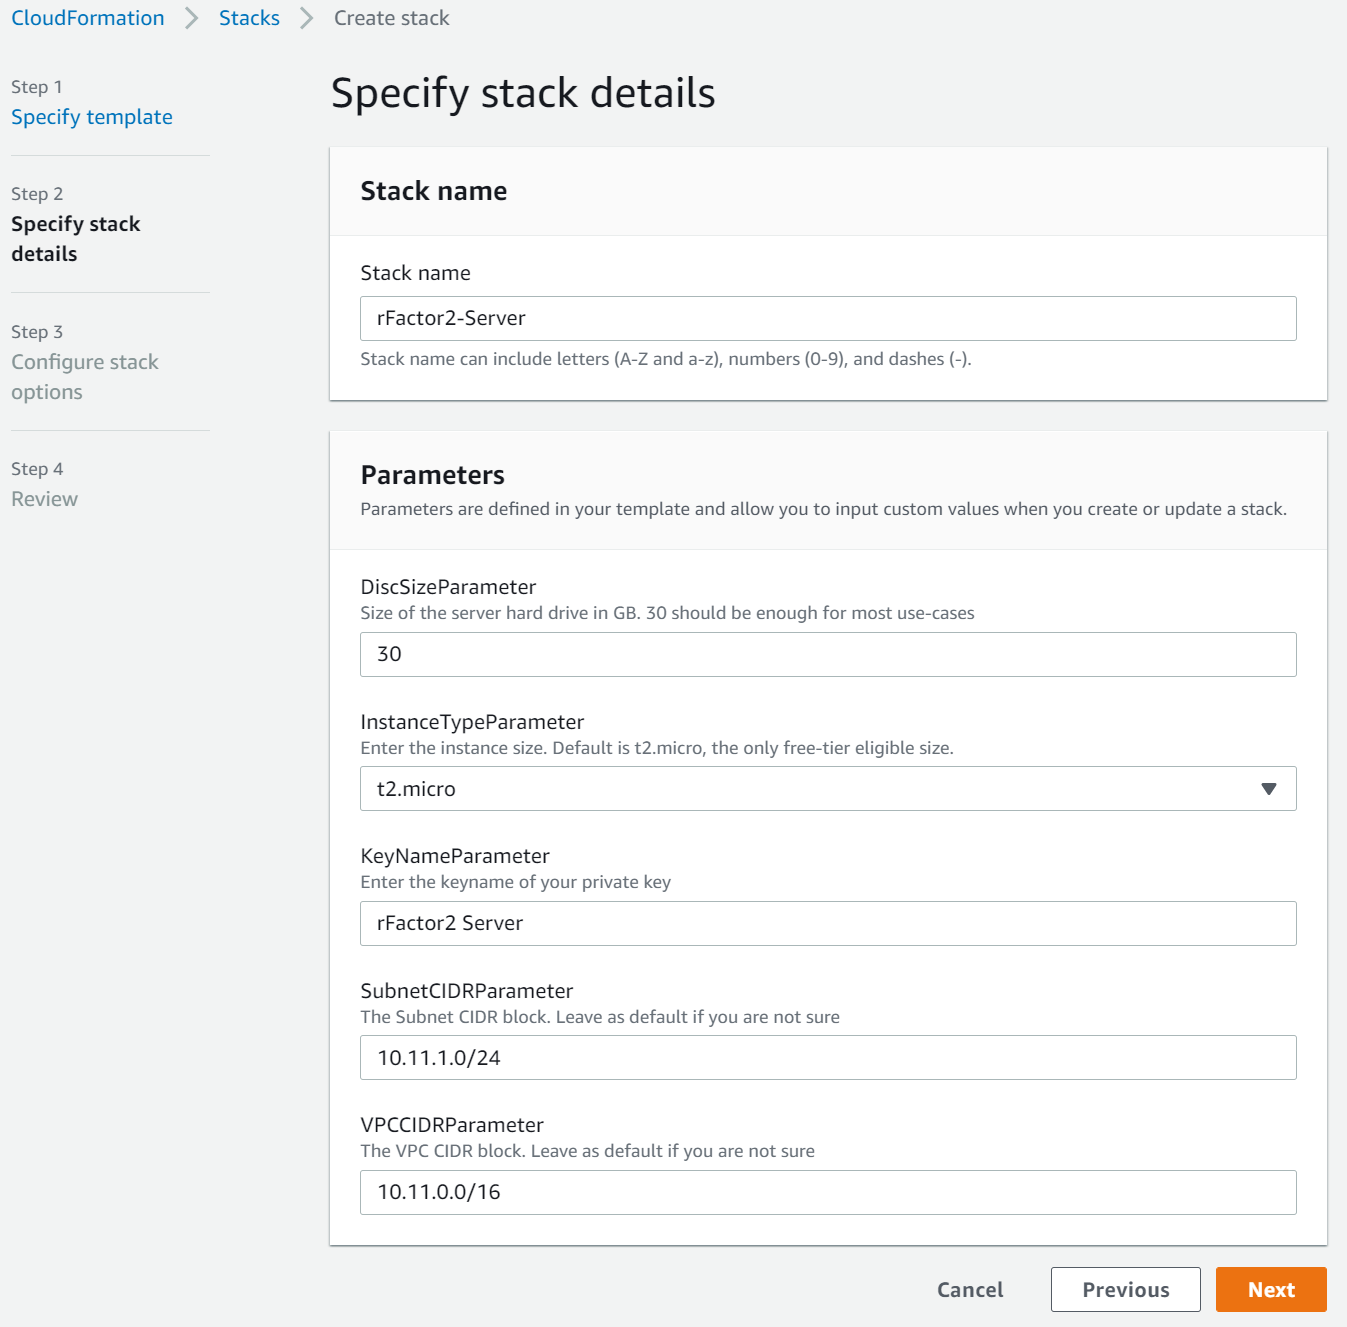
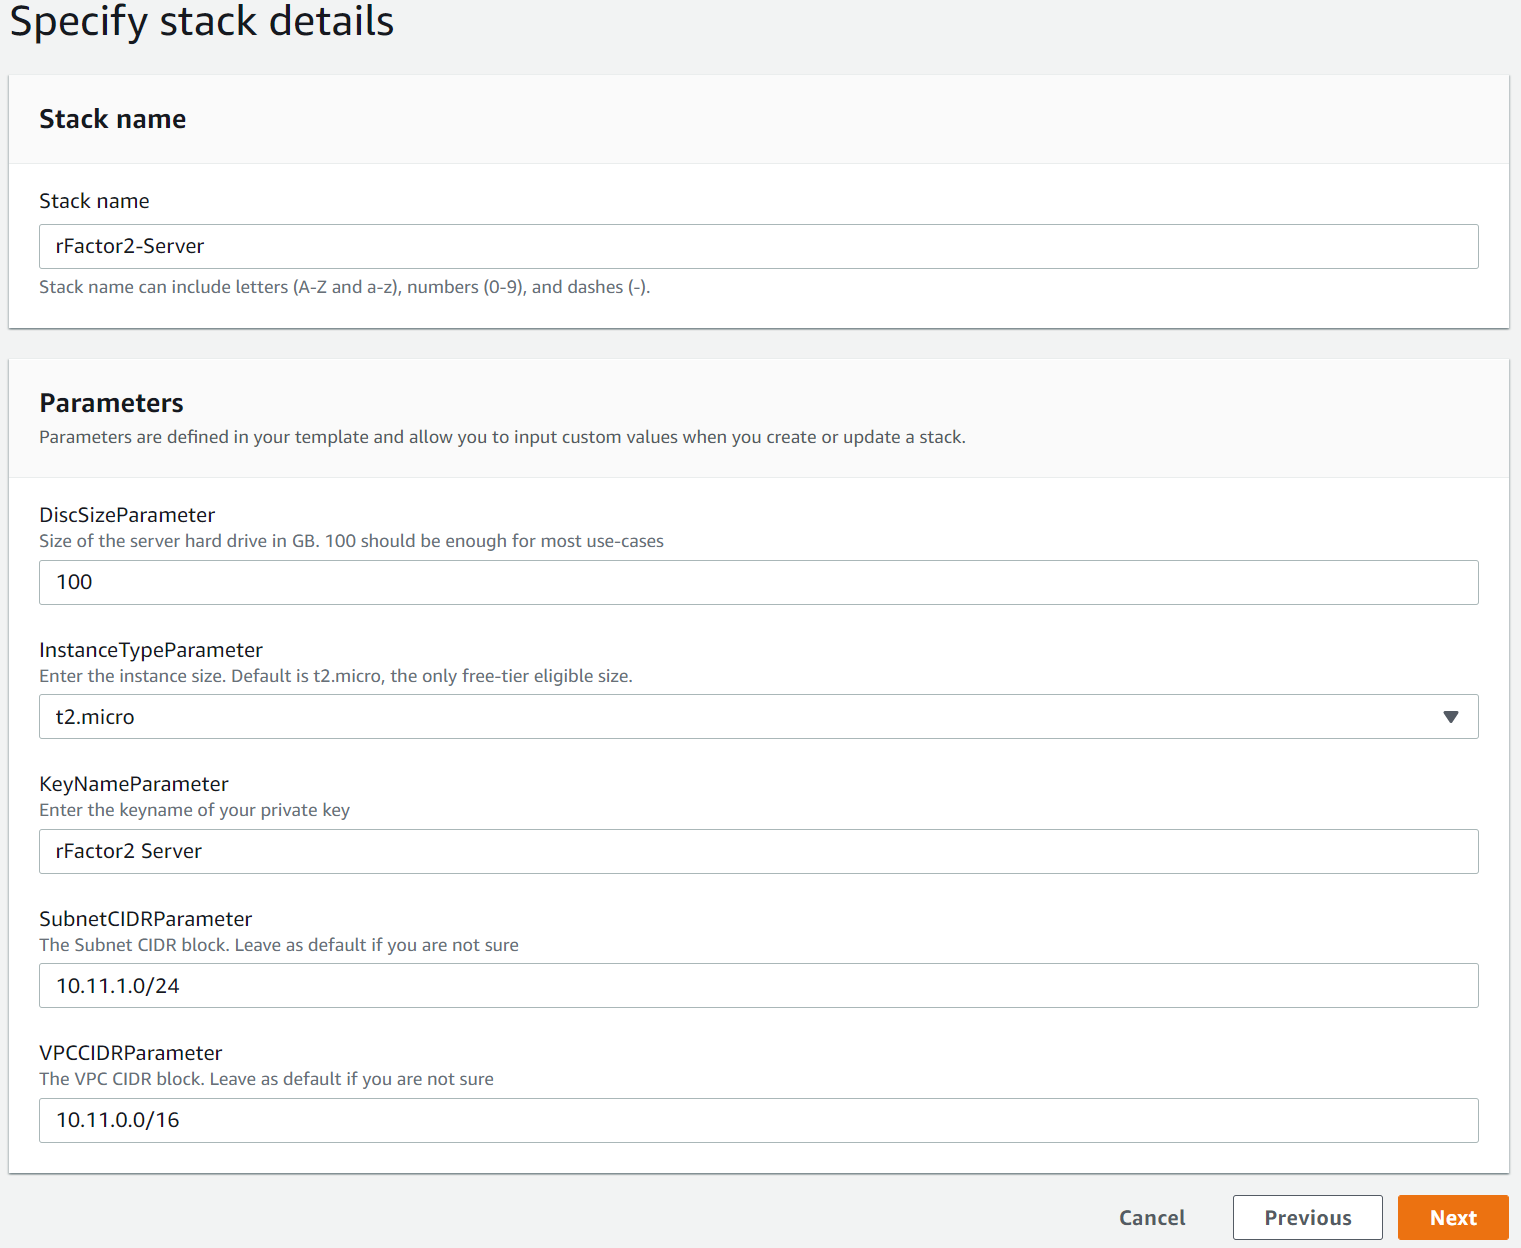
details on how to increase disk size

diff --git a/README.md b/README.md
@@ -19,8 +19,11 @@ Once you are done you will have a server that you can run for free, and also sta
     + [Connect to your rFactor2 server](#connect-to-your-rfactor2-server)
     + [rFactor2 dedicated on your server](#rfactor2-dedicated-on-your-server)
     + [Additional environment details](#additional-environment-details)
-    + [Destroying your AWS rFactor2 server](#destroying-your-aws-rfactor2-server)
     + [Other cool things you can do hosting on AWS](#other-cool-things-you-can-do-hosting-on-aws)
+      - [Destroy your AWS rFactor2 server](#destroy-your-aws-rfactor2-server)
+      - [Stop the instance and restart it](#stop-the-instance-and-restart-it)
+      - [Use reserved instances](#use-reserved-instances)
+      - [Increase the disk size](#increase-the-disk-size)
   * [Using rFactor2 server](#using-rfactor2-server)
     + [Downloading workshop mods](#downloading-workshop-mods)
     + [Using ModMgr to install workshop mods](#using-modmgr-to-install-workshop-mods)
@@ -149,15 +152,48 @@ The reason for copying the rFactor2 Dedicated.exe into the root folder is largel
 
 MAS2.exe also gets copied over to the root directory simply for ease of use and consistency.
 
-### Destroying your AWS rFactor2 server
-
-If you ever decide you don't need your server anymore you can easily destroy all AWS services through the CloudFormation dashboard. There is a very simple Delete option for the selected CloudFormation stack.
+Jump ahead to [Using rFactor2 server](#Using-rFactor2-server) if you are following this guide to host on AWS and just want to get going.
 
 ### Other cool things you can do hosting on AWS
 
+#### Destroy your AWS rFactor2 server
+
+If you ever decide you don't need your server anymore you can easily destroy all AWS resources through the CloudFormation dashboard. There is a very simple Delete option for the selected CloudFormation stack.
+
+#### Stop the instance and restart it
+
 In the EC2 instance list (where you got the server connection settings) you can select the instance as you did before, select the `Instance State` dropdown, and Stop the instance. This is the equivalent to powering down your PC at home. It will still be there for you if you want to start it again, and instances have no cost when they are stopped so it can be a great cost saving measure.
 
+#### Use reserved instances
+
 Another thing you can do to manage cost if you're running a large server with lots of rFactor servers on it, or lots of small servers each with its own rFactor server, is take advantage of AWS reserved instances. AWS reserved instances come at a much lower cost if you are willing to commit to minimum term length of either 1 or 3 years. For leagues this would be a dirt cheap way of running the league servers.
+
+#### Increase the disk size
+
+If you have a ton of mods installed to your server you might find that 100GB of hard drive space isn't going to cut it. No problem, with AWS volumes you can increase it really easily.
+
+1) Open up AWS and go to the 'EC2' instances as shown below, select your server, and click on the Storage tab in the menu below the instance list. Click on the volume ID to go to that volume.
+<br/><img src="images/aws_ec2_volume.png" alt="EC2 volume" width="500" />
+
+2) On the volumes page click on `Actions` and select `Modify Volume`.
+<br/><img src="images/aws_volume_modify.png" alt="modify volume" width="300" />
+
+3) Enter the new hard drive size in GB. In this example we are increasing the hard drive from 100GB to 120GB. Click `Modify` when done.
+<br/><img src="images/aws_volume_size.png" alt="new volume size" width="400" />
+
+4) On this next screen just confirm that you want to modify the volume. As the dialog mentions, you need to increase the size of the partition on the machine.
+
+5) Remote desktop to the server now, search for "disk management" in the windows search bar, and select `Create and format hard disk partitions`. In this example we have a disk partitioned with 100GB and now have 20GB of unallocated space.
+<br/><img src="images/ms_disk_management.png" alt="disk management" width="400" />
+
+6) Right-click on the C: drive and select `Extend Volume`
+<br/><img src="images/ms_extend_volume.png" alt="extend volume" width="200" />
+
+7) By default windows will select all of the unallocated space and add it to the current C: drive partition, so click `Next`.
+<br/><img src="images/ms_volume_size.png" alt="ms volume size" width="400" />
+
+8) Click `Finish` on this final screen.
+<br/><img src="images/ms_volume_finish.png" alt="extend volume complete" width="300" />
 
 ## Using rFactor2 server
 
@@ -196,7 +232,13 @@ Use the above steam command for every workshop mod you want to use, and they wil
 cp C:\steamcmd\steamapps\workshop\content\365960\*\*.rfcmp C:\rfactor2-dedicated\Packages\
 ```
 
-Once you're done downloading any mods and they are all copied over to the packages folder you can close the powershell window.
+Once you're done downloading any mods and they are all copied over to the packages folder you might also want to delete the copy from the workshop folder so you aren't storing all mods in two places. Use this command to remove the workshop packages once you have copied them over to the server.
+
+```shell
+rm C:\steamcmd\steamapps\workshop\content\365960
+```
+
+Close the powershell window when you are done.
 
 ### Using ModMgr to install workshop mods
 
